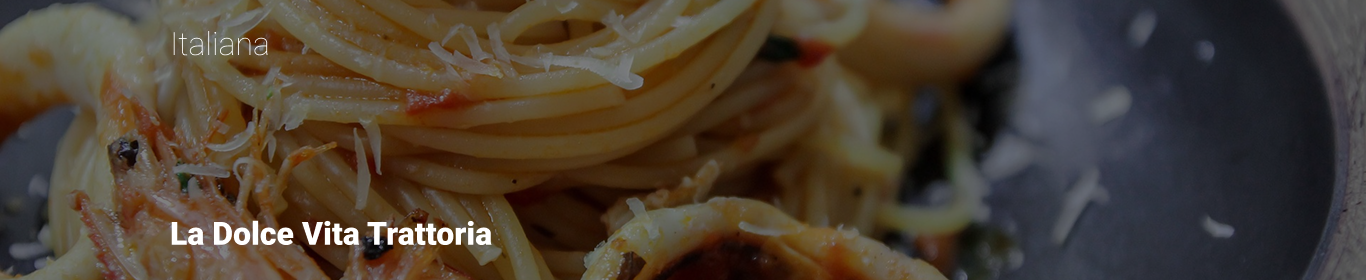
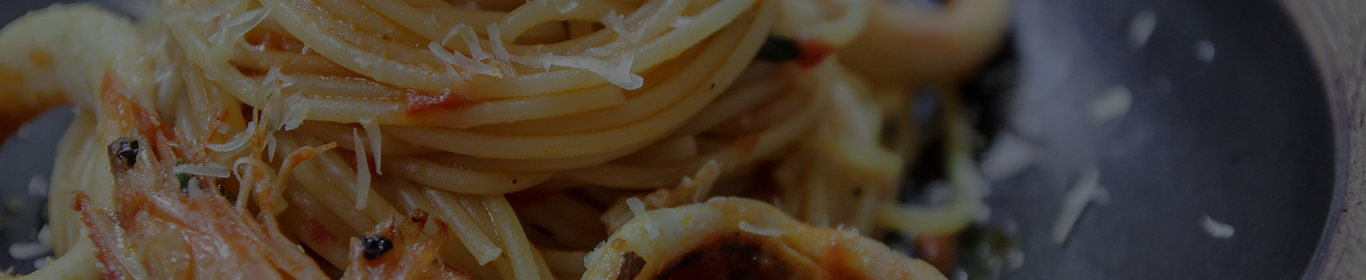
Commit 11: ajustando breakpoints.

Changed region(s): [[0.123, 0.7714, 0.369, 0.8857], [0.123, 0.1143, 0.2152, 0.2]]

diff --git a/src/components/Header/style.ts b/src/components/Header/style.ts
@@ -13,32 +13,29 @@ export const HeaderStyle = styled.header<HeaderProps>`
     background-repeat: no-repeat;
     background-size: cover;
     
+    
     ${({ variant }) =>
         variant === 'home' ? css`
         height: 384px;
         align-items: center;
         flex-direction: column;
         justify-content: space-around;
+        @media(max-width: ${breakPoints.tablet}){
+            height: 250px;
+            justify-content: space-evenly;
+
+        }
     `
             : css`
             height: 186px;
-            padding: 0 171px;
-            flex-direction: row;
-            align-items: center;
-            justify-content: space-between;
+            display: flex;
+            @media(max-width: ${breakPoints.tablet}){
+               flex-direction: column;
+               justify-content: space-around;
+                
+             }        
     `}
-    @media (max-width: ${breakPoints.mobile}){
-        ${({ variant }) =>
-        variant === 'default' && css`
-            flex-direction: column;
-            gap: 1rem;
-            align-items: center;
-            justify-content: space-around;
-        `
-
-    }
-    }
-    
+        
 `
 export const Title = styled.h1`
     max-width: 700px;
@@ -57,17 +54,31 @@ export const Subtitle = styled.h3`
 
 // Estilo para o header default
 
-
+export const ContainerNav=styled.div`
+    margin: 0 auto;
+    max-width: 1024px;
+    width: 100%;
+    display: flex;
+    align-items:center;
+    @media(max-width: ${breakPoints.tablet}){
+        flex-direction: column;
+    }
+`
 export const LeftArea = styled.div`
   flex: 1;
   display: flex;
   justify-content: flex-start;
+  
 `;
 
 export const CenterArea = styled.div`
   flex: 1;
   display: flex;
   justify-content: center; 
+  @media(max-width: ${breakPoints.tablet}){
+            width:auto ;
+            margin-top:8px;
+    }
 `;
 
 export const RightArea = styled.div`
@@ -75,6 +86,10 @@ export const RightArea = styled.div`
   flex: 1;
   display: flex;
   justify-content: flex-end;
+   @media(max-width: ${breakPoints.tablet}){
+            width:auto ;
+            margin-top:8px;
+    }
 `;
 
 

diff --git a/src/components/Footer/index.tsx b/src/components/Footer/index.tsx
@@ -1,19 +1,35 @@
-import { FooterStyle } from "./style";
 import logo from "../../assets/logo.png";
 import insta from "../../assets/instagram-round-svgrepo-com (1) 1.png";
 import x from "../../assets/x.png";
 import face from "../../assets/facebook.png";
+import {
+  FooterContainer,
+  FooterContent,
+  FooterText,
+  SocialLinks,
+} from "./style";
 export default function Footer() {
-    return (
-        <FooterStyle>
-            <img src={logo} alt="Logo da empresa." />
-            <ul>
-                <li><img src={insta} alt="Logo Instagram" /></li>
-                <li><img src={face} alt="Logo Facebook" /></li>
-                <li><img src={x} alt="Logo X" /></li>
-            </ul>
-            <p>A efood é uma plataforma para divulgação de estabelecimentos, a responsabilidade pela entrega, qualidade dos produtos é toda do estabelecimento contratado. </p>
-        </FooterStyle>
-    );
-
+  return (
+    <FooterContainer>
+      <FooterContent>
+        <img src={logo} alt="Logo da empresa." />
+        <SocialLinks>
+          <a href="#">
+            <img src={insta} alt="Logo Instagram" />
+          </a>
+          <a href="#">
+            <img src={face} alt="Logo Facebook" />
+          </a>
+          <a href="#">
+            <img src={x} alt="Logo X" />
+          </a>
+        </SocialLinks>
+        <FooterText>
+            A efood é uma plataforma para divulgação de estabelecimentos, a
+            responsabilidade pela entrega, qualidade dos produtos é toda do
+            estabelecimento contratado.{" "}
+        </FooterText>
+      </FooterContent>
+    </FooterContainer>
+  );
 }

diff --git a/src/components/Footer/style.ts b/src/components/Footer/style.ts
@@ -1,26 +1,36 @@
-import styled from "styled-components";
-import { colors } from "../../globalStyle";
+import styled from "styled-components"
+import { breakPoints, colors } from "../../globalStyle"
 
-export const FooterStyle = styled.footer`
-    height: 298px;
+export const FooterContainer = styled.footer`
+    background-color: ${colors.bcf}; /* Cor bege mais escura dos seus estilos */
+    padding: 40px 0;
+    margin-top: 80px; /* Espaço entre as pizzas e o footer */
+    width: 100%;
+`
+
+export const FooterContent = styled.div`
+    max-width: 1024px;
+    width: 100%;
+    margin: 0 auto;
     display: flex;
-    align-items: center;
     flex-direction: column;
-    justify-content: space-around;
-    background-color: ${colors.bcf};
+    align-items: center;
+    text-align: center;
 
-    ul>li{
-        display: inline;
-        margin-right: 8px;
+    @media (max-width: ${breakPoints.tablet}) {
+        padding: 0 16px;
     }
+`
 
-    p{
-        max-width:560px;
-        width: 100%;
-        line-height: 100%;
-        font-size: 10px;
-        font-weight: 400;
-        text-align: center;
-        color: ${colors.cft};
-    }
+export const SocialLinks = styled.div`
+    display: flex;
+    gap: 8px;
+    margin: 32px 0 80px; /* Espaço entre logo, ícones e o texto final */
+`
+
+export const FooterText = styled.p`
+    font-size: 10px;
+    color: ${colors.cft};
+    max-width: 480px; /* Limita o texto para não ficar uma linha gigante no desktop */
+    line-height: 1.2;
 `

diff --git a/src/components/FoodList/style.ts b/src/components/FoodList/style.ts
@@ -1,5 +1,5 @@
 import styled from "styled-components";
-import { colors } from "../../globalStyle";
+import { breakPoints, colors } from "../../globalStyle";
 
 export const ContainerProduct = styled.div`
     display: grid;
@@ -9,7 +9,17 @@ export const ContainerProduct = styled.div`
     padding-top: 56px;
     color: ${colors.bcc};
     padding-bottom: 120px;
-
+    @media (max-width: ${breakPoints.tablet}){
+        grid-template-columns: 1fr;
+        justify-items: center;
+        padding: 16px;
+    }
+    @media (min-width: ${breakPoints.tablet}) {
+        grid-template-columns:repeat(3, 1fr);
+        justify-items: center;
+        column-gap: 24px;
+    }    
+   
 `
 export const CardProduct=styled.div`
     max-width: 320px;
@@ -17,8 +27,8 @@ export const CardProduct=styled.div`
     display: flex;
     flex-direction: column;
     padding: 8px;
-    background-color: rgb(230, 103, 103);
-    color: rgb(255, 235, 217);
+    background-color: ${colors.bcbl};
+    color: ${colors.bcf};
 
     h4{
         margin: 8px 0;

diff --git a/src/components/pages/perfil/index.tsx b/src/components/pages/perfil/index.tsx
@@ -4,18 +4,22 @@ import logo from "../../../assets/logo.png";
 import FoodList from "../../FoodList";
 import Banner from "../../Banner";
 import apresentacao from "../../../assets/apresentacao.png";
-export default function Perfil(){
-    return(
-        <>
-        <Header 
-        variant="default" 
+export default function Perfil() {
+  return (
+    <>
+      <Header
+        variant="default"
         logo={logo}
         text="Restaurante"
         infoCar="0 produto(s) no carrinho"
-        />
-        <Banner imagem={apresentacao}/>
-        <FoodList/>
-        <Footer />
-        </>
-    );
+      />
+      <Banner
+        imagem={apresentacao}
+        titleGen="Italiana"
+        titleBistro="Bella Tavola Italiana"
+      />
+      <FoodList />
+      <Footer />
+    </>
+  );
 }

diff --git a/src/components/Banner/style.ts b/src/components/Banner/style.ts
@@ -1,9 +1,26 @@
 import styled from "styled-components";
 import type { Props } from ".";
+import { breakPoints, colors } from "../../globalStyle";
 export const ImageBanner= styled.div<Props>`
     width: 100%;
     height: 280px;
+    display: flex;
     background-image: url(${(props)=> props.imagem});
     background-repeat: no-repeat;
-    background-size: contain;
+    background-size: cover;
+    
+    
+    `
+export const InfoBistro=styled.div`
+    margin:0 auto;
+    max-width: 1024px;
+    width: 100%;
+    display: flex;
+    flex-direction: column;
+    justify-content: space-around;
+    color: ${colors.bcf};
+    @media(max-width: ${breakPoints.tablet}){
+        text-align: center;
+    }
+
 `

diff --git a/src/globalStyle.ts b/src/globalStyle.ts
@@ -22,6 +22,8 @@ export const RootGlobalStyle = createGlobalStyle`
         text-decoration: none;
     }
     body{
+        width: 100%;
+        margin: 0 auto;
         background-color: ${colors.bcm};
         
     }
@@ -30,15 +32,7 @@ export const Container = styled.main`
     max-width: 1024px;
     width: 100%;
     margin: 0 auto;
-    @media (max-width: ${breakPoints.mobile}){
-        max-width: 80%;
-    }
-    /* @media (min-width: ${breakPoints.tablet}){
-        max-width: 80%;
-    }
-    @media (min-width: ${breakPoints.desktop}){
-        max-width: 50%;
-    } */
+    
     
     
 `

diff --git a/src/components/Header/index.tsx b/src/components/Header/index.tsx
@@ -1,5 +1,6 @@
 import {
   CenterArea,
+  ContainerNav,
   HeaderStyle,
   LeftArea,
   RightArea,
@@ -26,7 +27,7 @@ export default function Header({
   return (
     <HeaderStyle variant={variant}>
       {variant === "default" && (
-        <>
+        <ContainerNav>
           <LeftArea>
             <Subtitle>{text}</Subtitle>
           </LeftArea>
@@ -38,7 +39,7 @@ export default function Header({
           <RightArea>
             <Subtitle>{infoCar}</Subtitle>
           </RightArea>
-        </>
+        </ContainerNav>
       )}
       {variant === "home" && (
         <>

diff --git a/src/components/Banner/index.tsx b/src/components/Banner/index.tsx
@@ -1,11 +1,18 @@
-import { ImageBanner } from "./style";
+import { ImageBanner, InfoBistro } from "./style";
 export type Props={
     imagem:string;
+    titleGen?:string;
+    titleBistro?:string
 }
-export default function Banner({imagem}:Props){
+
+export default function Banner({imagem, titleGen, titleBistro}:Props){
 
     return(
         <ImageBanner imagem={imagem}>
+            <InfoBistro>
+                <h2>{titleGen}</h2>
+                <h2>{titleBistro}</h2>
+            </InfoBistro>
         </ImageBanner>
     );
 }

diff --git a/src/components/ListBistro/style.ts b/src/components/ListBistro/style.ts
@@ -7,7 +7,8 @@ export const ContainerListBistro = styled.section`
     grid-template-columns: 1fr 1fr;
     gap: 24px 80px;
     
-    @media (max-width: ${breakPoints.mobile}){
+    @media (max-width: ${breakPoints.tablet}){
+        padding: 16px;
         display: grid;
         grid-template-columns: 1fr;
         gap: 28px;
